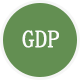
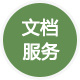
gdp--文档服务

Changed region(s): [[0.275, 0.225, 0.75, 0.775]]

diff --git a/index.html b/index.html
@@ -127,11 +127,12 @@
 	  <ul>
             <li><a target="_blank"  href="/vip"><img src="images/1.png"  /></a></li>
             <li><a target="_blank"  href="/sdr"><img src="images/2.png" /></a></li>
-            <li><a target="_blank"  href="/sf"><img src="images/11.png" /></a></li>    
+            <li ><a target="_blank"  href="/wd"><img src="images/8.png" /></a></li>        
             <li><a target="_blank"  href="https://www.baiduwp.com/"><img src="images/3.png" /></a></li>    
             <li><a target="_blank"  href="http://www.baidu.com"><img src="images/10.png" /></a></li>
+
             <li><a target="_blank"  href="http://fm.sojson.com/"><img src="images/14.png" /></a></li>
-            <li ><a target="_blank"  href="/gdp"><img src="images/8.png" /></a></li>  
+            <li><a target="_blank"  href="/sf"><img src="images/11.png" /></a></li>    
             <li ><a target="_blank"  href="https://github.com"><img src="images/21.png" /></a></li>  
             <li ><a target="_blank"  href="https://www.luochenzhimu.com/"><img src="images/9.png" /></a></li> 
             <li><a target="_blank"  href="https://www.rtl-sdr.com/"><img src="images/15.png" /></a></li> 		

diff --git a/wd/index.html b/wd/index.html
@@ -1,0 +1,34 @@
+<!DOCTYPE html>
+<html>
+<head>
+    <meta charset="UTF-8">
+   <title>用户：873957870密码：378798</title>
+    <style>
+        * {
+            padding: 0;
+            margin: 0;
+        }
+
+        html, body {
+            height: 100%;
+            width: 100%;
+            overflow: hidden;
+        }
+
+        iframe {
+            border: 0;
+        }
+    </style>
+
+</head>
+<body>
+
+<iframe id="mainContent" width="100%" height="100%" ></iframe>
+</body>
+<script>
+ 
+    var mainContent = document.getElementById('mainContent');
+    mainContent.src = "http://www.blpack.com/";
+
+</script>
+</html>
